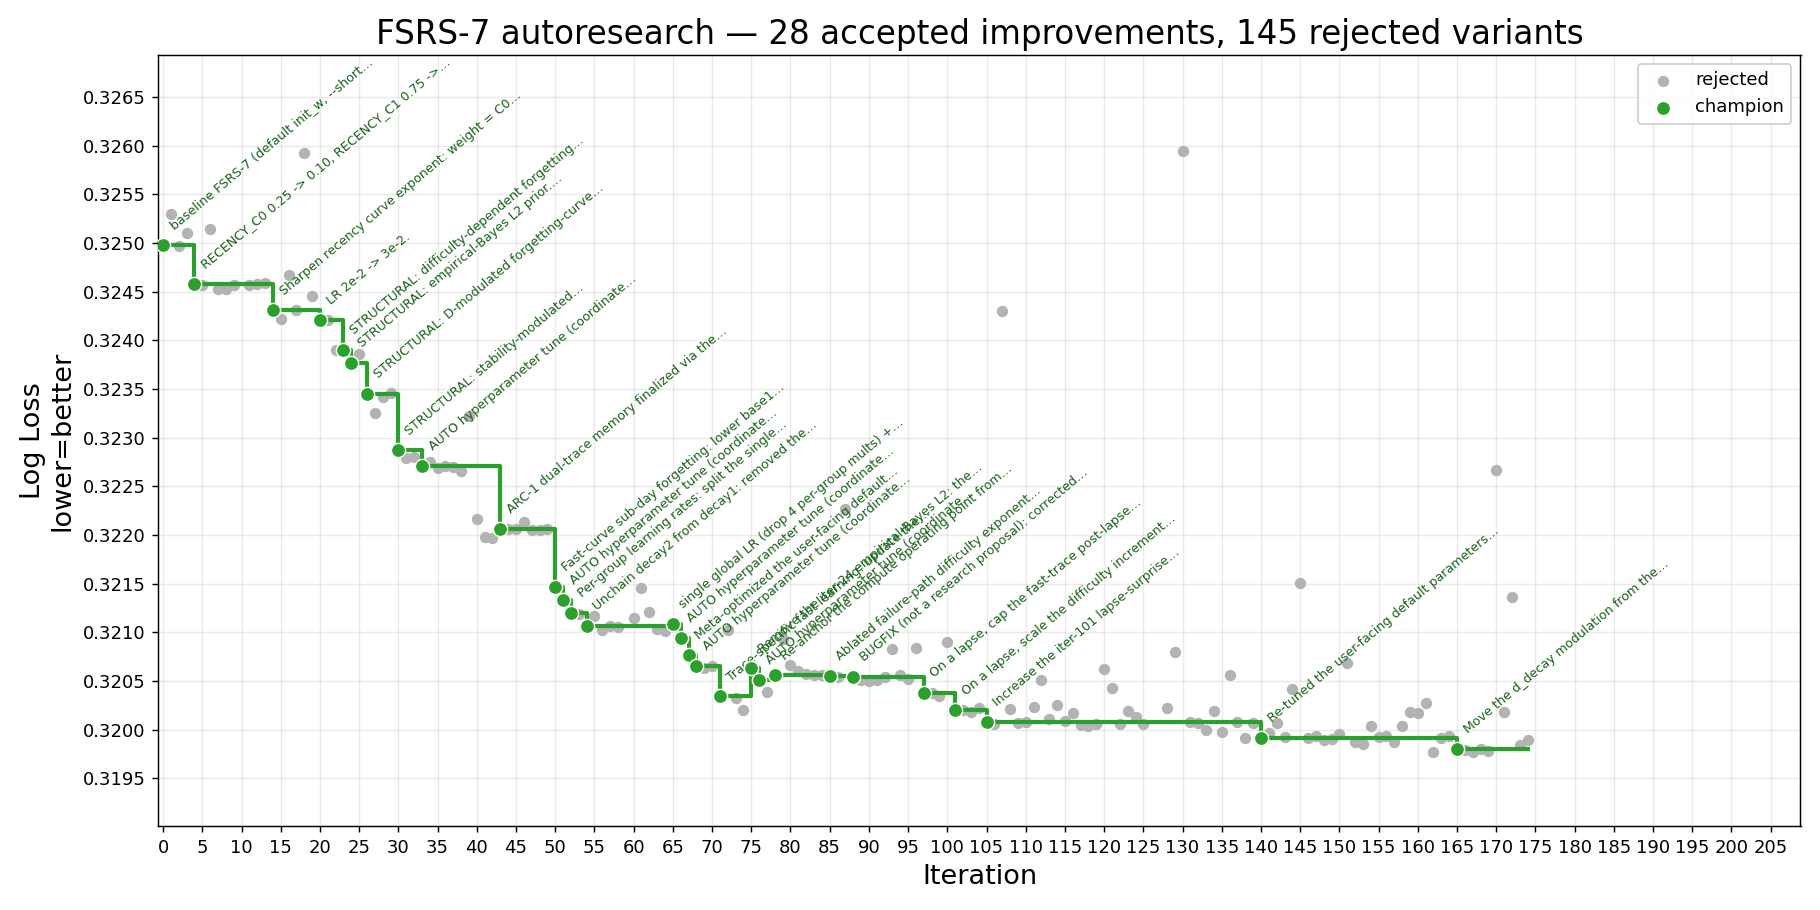
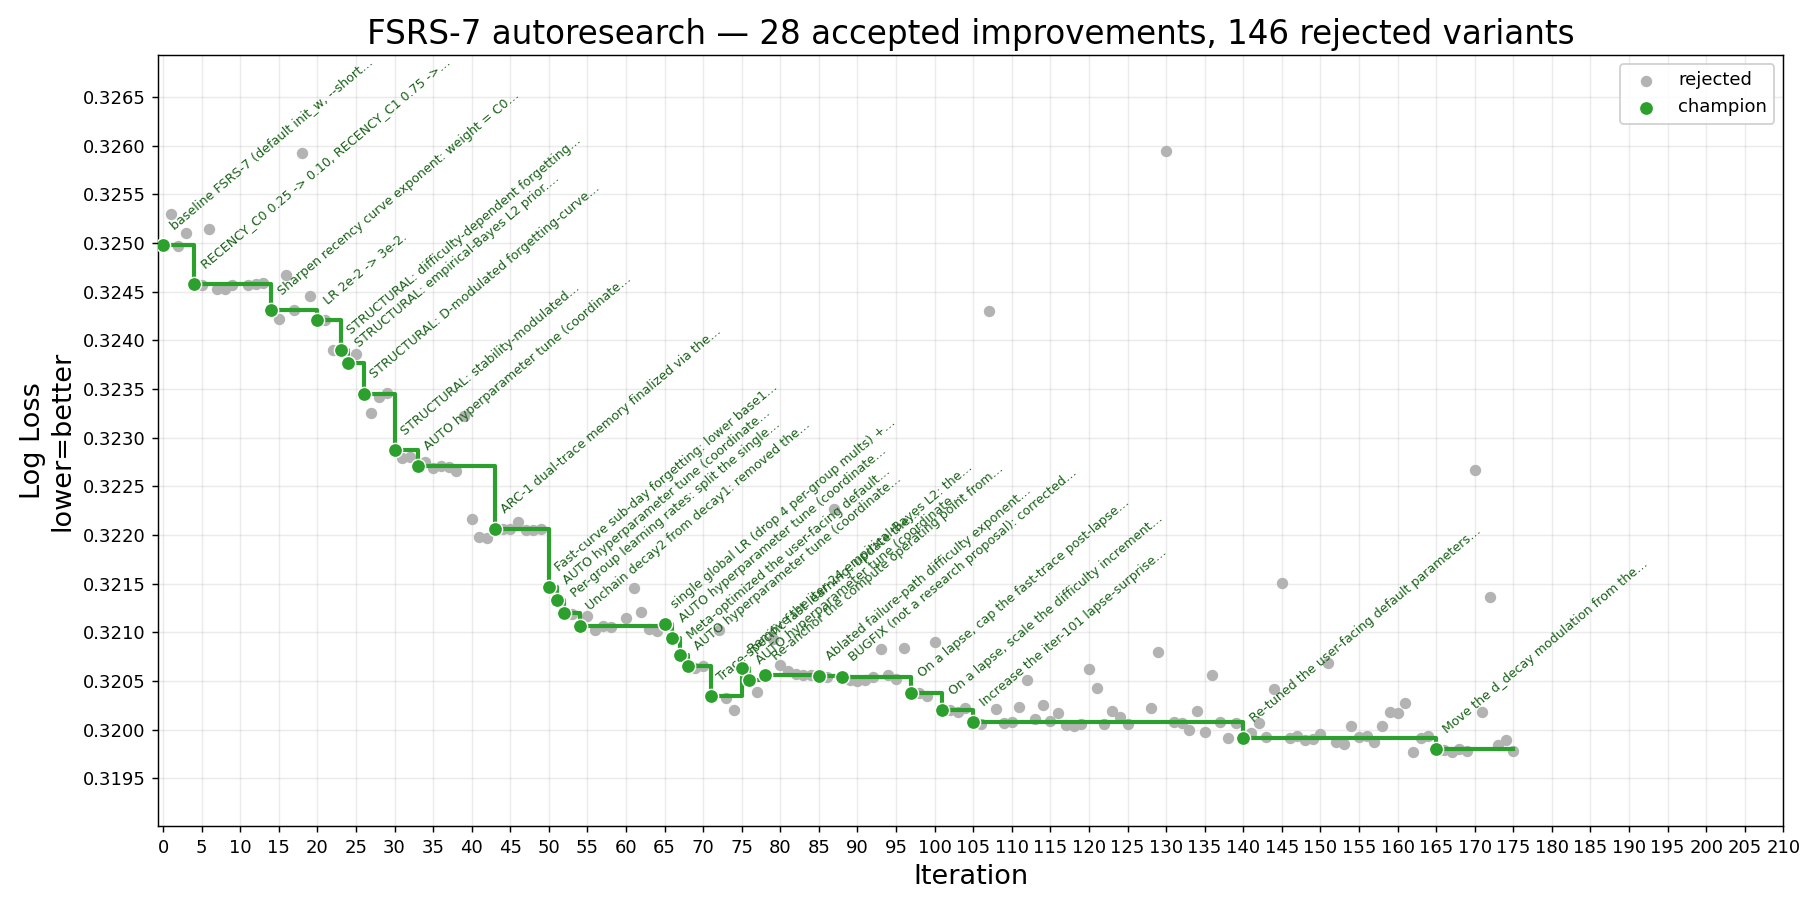
iter-175: joint default+sigma co-tune (2k proxy) aborted at 9/25, 3k verdict +2.33e-5 sub-threshold - rejected

diff --git a/result/history.md b/result/history.md
@@ -1,6 +1,6 @@
 # FSRS-7 autoresearch — iteration history
 
-_174 record(s). Generated from `history.jsonl` — do not edit by hand._
+_175 record(s). Generated from `history.jsonl` — do not edit by hand._
 
 | # | Time (UTC) | Thresh. | LL before | LL after | Δ LL | Cx before | Cx after | Δ Cx % | Status | Summary |
 |--:|---|---:|---:|---:|---:|---:|---:|---:|---|---|
@@ -178,3 +178,4 @@ _174 record(s). Generated from `history.jsonl` — do not edit by hand._
 | 172 | 2026-06-07T20:33:24 | 0.0001 | 0.31980 | 0.32137 | -0.00156 | 16,938 | 17,416 | +2.82% | rejected | Rating-aware AutoClip (p=90): clip only the recall-component (rating>1) of each row's gradient, preserve the Again-component (rating==1). |
 | 173 | 2026-06-07T20:50:46 | 0.0001 | 0.31980 | 0.31984 | -0.00004 | 16,938 | 17,015 | +0.45% | rejected | fp64 partial test: compute the retention path (forgetting curve + short-component recall) in double internally, fp32 I/O preserved. |
 | 174 | 2026-06-08T09:30:57 | 0.0001 | 0.31980 | 0.31990 | -0.00009 | 16,938 | 16,938 | +0.00% | rejected | Re-tune FSRS7_DEFAULT_35_VALUES via 500-step central_diff (0-epoch) meta-opt for the iter-165 structure; round to 4dp. |
+| 175 | 2026-06-10T05:20:35 | 0.0001 | 0.31980 | 0.31978 | +0.00002 | 16,938 | 16,938 | +0.00% | rejected | Joint gated default+sigma alternating co-tune on a 2k-user proxy; best candidate after 9/25 cycles, 3k-verified. |
